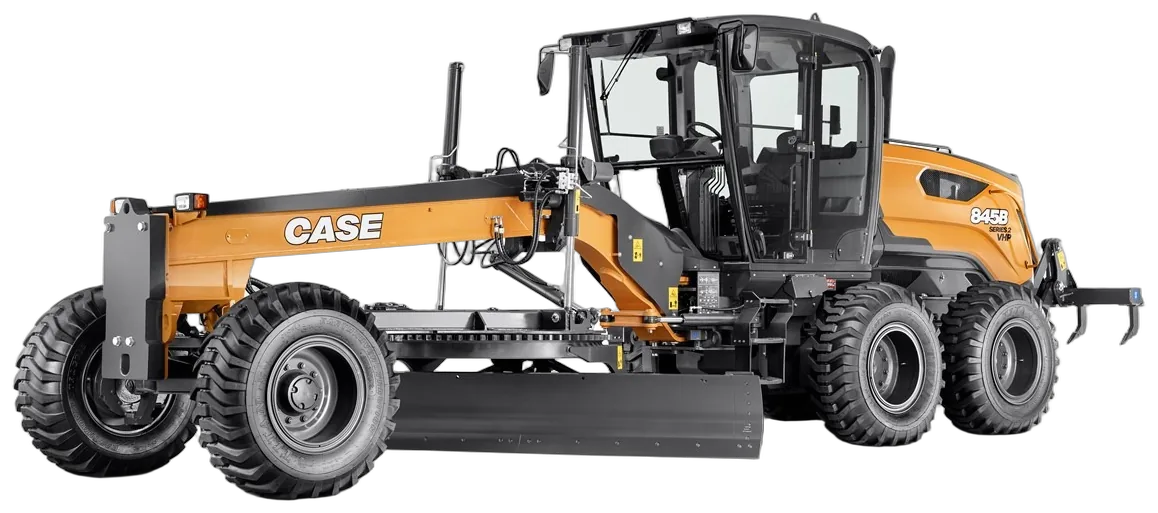
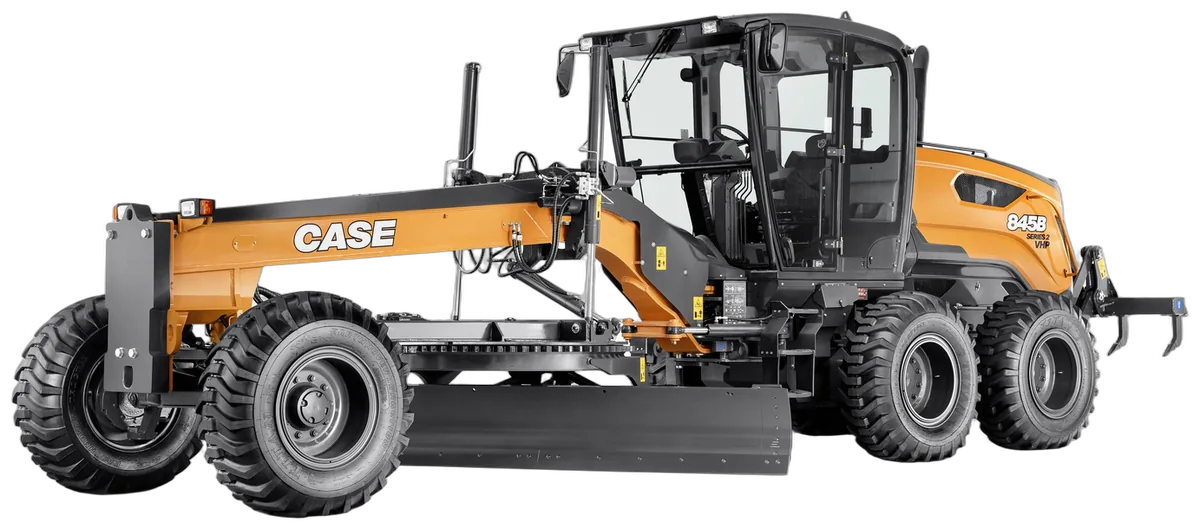
feat(case): 845B em alta resolução no ângulo correto
Os downloads do portal chegaram com atraso, depois de eu concluir que estavam
bloqueados. Com o arquivo em mãos, a 845B passa a usar o ângulo de três quartos
em alta, no lugar do preview de 1335 px.

## Mudanças
- 845B: 1335 px → 2400 px (original de 8697 px), mesmo ângulo
- tasks/todo.md: SR175B encerrada como decisão, não como pendência

## SR175B: mantida a foto atual, de propósito
A foto de estúdio disponível no portal (CCE-IMG-13186, 5895 px) é da geração
anterior, a SR175 sem "B", como mostra a identificação na lateral da máquina.
A foto que está no site hoje é de obra e tem só 1024 px, mas mostra a SR175B
correta. Trocar daria uma imagem melhor de um modelo errado.

## Testes
- `npm run rebuild:site` ✓ · `verify:dist` ✓ · `launch-gate-smoke` ✓ 7 rotas
- 0 imagens quebradas no dist · revisão visual das quatro máquinas

diff --git a/tasks/todo.md b/tasks/todo.md
@@ -344,13 +344,14 @@ Aplicado nesta rodada (as 5 máquinas de baixa resolução do site):
 |---|---|---|---|
 | 1150L | 460 px | 7360 px (reduzida a 2400) | CCE-IMG-11491 |
 | 2050M | 460 px | 7360 px (reduzida a 2400) | CCE-IMG-11499 |
-| 845B  | 1114 px | 1335 px | CCE-IMG-26411 |
+| 845B  | 1114 px | 8697 px (reduzida a 2400) | CCE-IMG-26411 |
 | 885B  | 1114 px | 9009 px (reduzida a 2400) | CCE-IMG-26501 |
-| SR175B | 1024 px | pendente | CCE-IMG-13186/13187/13188 |
+| SR175B | 1024 px | mantida a atual (ver nota) | — |
 
-- [ ] SR175B: os 3 estúdio do portal não expõem URL de preview; baixar em alta
-      pelo botão da página (o navegador passou a bloquear download automático).
+- [x] SR175B: NÃO trocada de propósito. A foto de estúdio do portal (CCE-IMG-13186,
+      5895 px) é da geração anterior, a SR175 sem "B". A foto atual do site, embora
+      de obra e com 1024 px, mostra a SR175B correta. Trocar seria anunciar outro
+      modelo. Se a IBL quiser estúdio nessa máquina, é preciso foto da série B.
 - [x] 885B: versão em alta (9009 px) aplicada.
-- [ ] 845B: a foto em alta que o portal entregou é traseira; o ângulo certo
-      (CCE-IMG-26411) só saiu em preview de 1335 px. Rebaixar em alta.
+- [x] 845B: ângulo de três quartos em alta (8697 px) aplicado.
 - [ ] Próximas rodadas: 2ª e 3ª foto por modelo (galeria) e folhetos técnicos em PDF.
